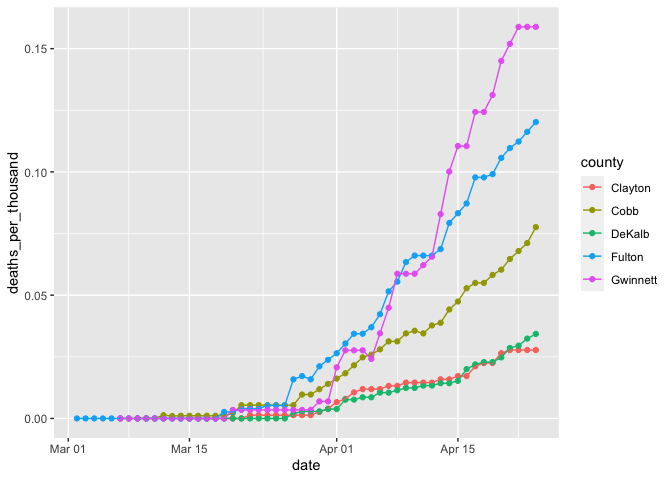
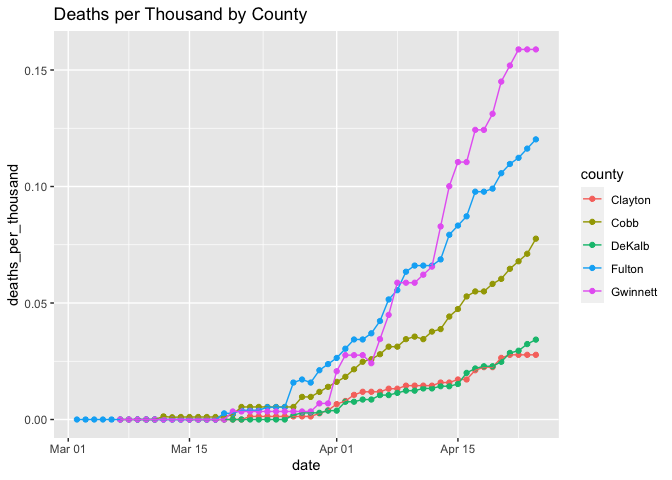
Added titles to plots

diff --git a/Metro_Atlanta-_COVID.md b/Metro_Atlanta-_COVID.md
@@ -23,49 +23,31 @@ of the true numbers.
 
 # Metro Atlanta
 
-## Total Cases by County
-
 ![](Metro_Atlanta-_COVID_files/figure-html/atl_cases_absolute-1.png)<!-- -->
 
-## Total Deaths by County
 
 ![](Metro_Atlanta-_COVID_files/figure-html/atl_deaths_absolute-1.png)<!-- -->
 
-## Cases per Thousand by County
 
 ![](Metro_Atlanta-_COVID_files/figure-html/atl_relative_cases-1.png)<!-- -->
 
-## Deaths per Thousand by County
-
 ![](Metro_Atlanta-_COVID_files/figure-html/alt_relative_deaths-1.png)<!-- -->
 
-## New Cases in Metro Atlanta
-
 ![](Metro_Atlanta-_COVID_files/figure-html/atl_new_cases-1.png)<!-- -->
-
-## New Deaths in Metro Atlanta
 
 ![](Metro_Atlanta-_COVID_files/figure-html/atl_new_deaths-1.png)<!-- -->
 
 
 # Georgia
 
-## New Cases
-
 ![](Metro_Atlanta-_COVID_files/figure-html/georgia_new_cases-1.png)<!-- -->
-
-## New Deaths
 
 ![](Metro_Atlanta-_COVID_files/figure-html/georgia_new_deaths-1.png)<!-- -->
 
 
 # United States
 
-## New Cases
-
 ![](Metro_Atlanta-_COVID_files/figure-html/us_cases-1.png)<!-- -->
-
-## New Deaths
 
 ![](Metro_Atlanta-_COVID_files/figure-html/us_deaths-1.png)<!-- -->
 
